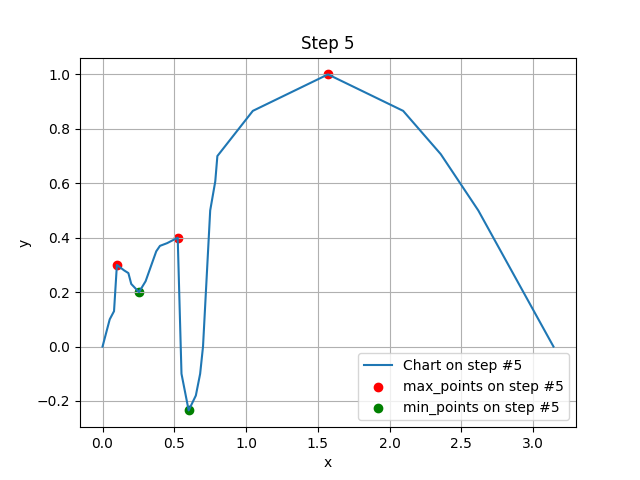
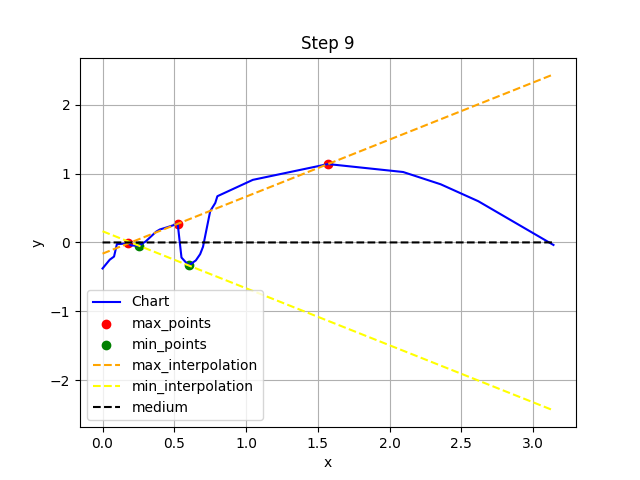
fixes

diff --git a/display/main_window.py b/display/main_window.py
@@ -1,6 +1,6 @@
 from display import chart_save
 from emd_algorithm.extremum_localization import get_maximum, get_minimum
-from emd_algorithm.interpolation import interpolation, get_medium
+from emd_algorithm.interpolation import interpolation, get_medium, get_diff
 
 import tkinter as tk
 from tkinter import messagebox, filedialog
@@ -45,15 +45,22 @@ class SignalPlotter:
             SignalPlotter.step += 1
             # Showing current step and extremums
             chart_save.plot_init(f"Step {SignalPlotter.step}")
-            chart_save.plot_chart(SignalPlotter.x, SignalPlotter.y, "Chart", SignalPlotter.step)
+            chart_save.plot_chart(SignalPlotter.x, SignalPlotter.y, "blue", "Chart")
             x_max, y_max = get_maximum(SignalPlotter.x, SignalPlotter.y)
             x_min, y_min = get_minimum(SignalPlotter.x, SignalPlotter.y)
-            chart_save.plot_points(x_max, y_max, "red", "max_points", SignalPlotter.step)
-            chart_save.plot_points(x_min, y_min, "green", "min_points", SignalPlotter.step)
-            max_interpolation = interpolation(x_max, y_max)
-            min_interpolation = interpolation(x_min, y_min)
+            chart_save.plot_points(x_max, y_max, "red", "max_points")
+            chart_save.plot_points(x_min, y_min, "green", "min_points")
+            max_interpolation = interpolation(SignalPlotter.x, x_max, y_max)
+            min_interpolation = interpolation(SignalPlotter.x, x_min, y_min)
+            medium = get_medium(*min_interpolation, *max_interpolation)
+            chart_save.plot_chart(*max_interpolation, "orange", "max_interpolation",
+                                  dashed=True)
+            chart_save.plot_chart(*min_interpolation, "yellow", "min_interpolation",
+                                  dashed=True)
+            chart_save.plot_chart(*medium, "black", "medium", dashed=True)
             chart_save.plot_save(SignalPlotter.image_path)
             SignalPlotter.add_image_to_canvas(canvas)
+            SignalPlotter.y = get_diff(SignalPlotter.y, medium[1])
 
 
         except Exception as e:

diff --git a/emd_algorithm/interpolation.py b/emd_algorithm/interpolation.py
@@ -2,13 +2,20 @@ import numpy as np
 from scipy.interpolate import CubicSpline
 
 
-def interpolation(x, y):
-    cs = CubicSpline(x, y)
+# old_x and old_y are points to make CubicSpline
+# x is used to generate points in the same places in chart where they exists
+def interpolation(x, old_x, old_y):
+    cs = CubicSpline(old_x, old_y)
     new_y = cs(x)
     return x, new_y
 
 
-def get_medium(extremum_1_x, extremum_1_y, extremum_2_x, extremum_2_y):
-    medium_x = np.array([(extremum_1_x[i] + extremum_2_x[i]) / 2 for i in range(len(extremum_1_x))])
-    medium_y = np.array([(extremum_1_y[i] + extremum_2_y[i]) / 2 for i in range(len(extremum_1_y))])
+def get_medium(x_1, y_1, x_2, y_2):
+    medium_x = np.array([(x_1[i] + x_2[i]) / 2 for i in range(len(x_1))])
+    medium_y = np.array([(y_1[i] + y_2[i]) / 2 for i in range(len(y_1))])
     return medium_x, medium_y
+
+
+def get_diff(y_1, y_2):
+    diff_y = np.array([y_1[i] - y_2[i] for i in range(len(y_1))])
+    return diff_y

diff --git a/display/chart_save.py b/display/chart_save.py
@@ -9,12 +9,13 @@ def plot_init(name):
     plt.ylabel('y')
 
 
-def plot_chart(x, y, label, step_number):
-    plt.plot(x, y, label=f"{label} on step #{step_number}")
+def plot_chart(x, y, color, label, dashed=False):
+    line_style = '--' if dashed else '-'
+    plt.plot(x, y, color=color, linestyle=line_style, label=label)
 
 
-def plot_points(x, y, color, label, step_number):
-    plt.scatter(x, y, color=color, label=f"{label} on step #{step_number}")
+def plot_points(x, y, color, label):
+    plt.scatter(x, y, color=color, label=label)
 
 
 def plot_save(file_name):
